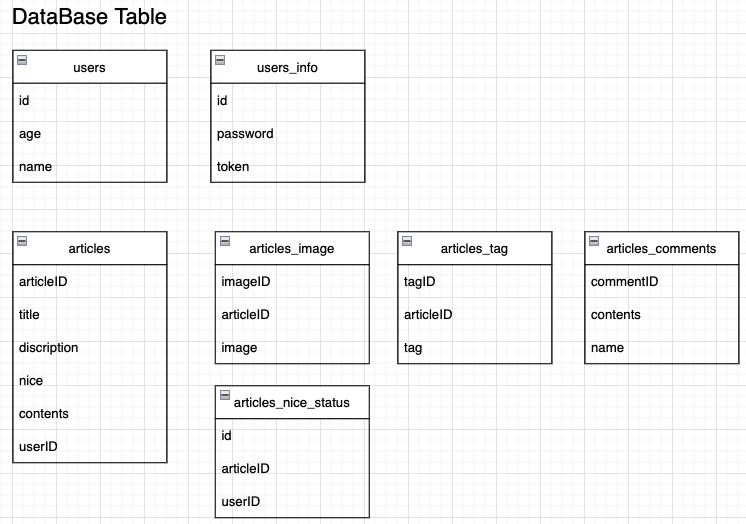
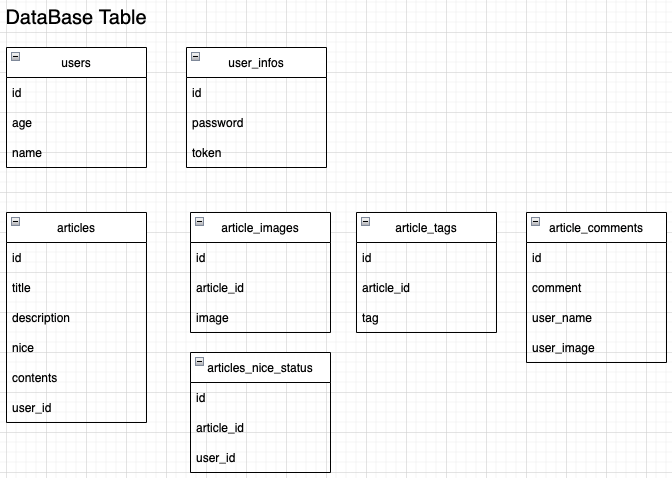
fix 実装時の修正に伴うAPI docsの修正

diff --git a/infrastructure/mysql_article_persistence.go b/infrastructure/mysql_article_persistence.go
@@ -29,7 +29,7 @@ func (a *articlePersistence) CreateNewArticle(articleID, title, description, con
 	article.Contents = content
 	article.Nice = 0
 
-	str := "INSERT INTO article_tags (`tag_id`,`article_id`,`article_tag`) VALUES"
+	str := "INSERT INTO article_tags (`id`,`article_id`,`tag`) VALUES"
 	var s []string
 	var queryEnd string
 

diff --git a/domain/model/image.go b/domain/model/image.go
@@ -1,5 +1,5 @@
 package model
 
 type Image struct {
-	content string
+	Image string
 }

diff --git a/docs/system-reqest-response.md b/docs/system-reqest-response.md
@@ -27,7 +27,7 @@ method:POST
 ##### リクエスト
 method:POST  
 **ヘッダー**  
-token:string
+Token:string
 
 **ボディ**
 ```cassandraql
@@ -62,7 +62,7 @@ method:POST
 ##### リクエスト
 method:PUT  
 **ヘッダー**  
-token:string  
+Token:string
 
 **ボディ**
 ```cassandraql
@@ -85,7 +85,7 @@ token:string
 ### 記事の投稿機能
 ##### リクエスト
 **ヘッダー**  
-token:string  
+Token:string
 method:POST  
 
 **ボディ**
@@ -93,6 +93,7 @@ method:POST
 {
   "title": "string",
   "description": "string",
+  "content":"string",
   "images": [
     {
       "image": "string"
@@ -115,13 +116,16 @@ method:POST
 ### 記事の修正機能
 ##### リクエスト
 **ヘッダー**  
-token:string  
+Token:string
+article_id:string
+
 method:PUT  
 **ボディ**
 ```cassandraql
 {
   "title": "string",
   "description": "string",
+  "content":"string",
   "images": [
     {
       "image": "string"
@@ -144,7 +148,8 @@ method:PUT
 
 ##### リクエスト
 **ヘッダー**  
-token:string  
+Token:string
+
 method:GET  
 PathParam:articlesNumber
 
@@ -164,7 +169,8 @@ PathParam:articlesNumber
 ### 記事閲覧機能(１つの記事の詳細な内容)
 ##### リクエスト
 **ヘッダー**  
-token:string  
+Token:string
+
 method:GET  
 PathParam:articleID
 
@@ -197,7 +203,8 @@ PathParam:articleID
 ### 記事に対する「高評価」機能
 ##### リクエスト
 **ヘッダー**  
-token:string  
+Token:string
+
 method:POST  
 PathParam:articleID
 ##### レスポンス
@@ -209,7 +216,8 @@ PathParam:articleID
 ### 記事に対するコメント機能
 ##### リクエスト
 **ヘッダー**  
-token:string  
+Token:string
+
 method:POST  
 PathParam:articleID  
 **ボディ**
